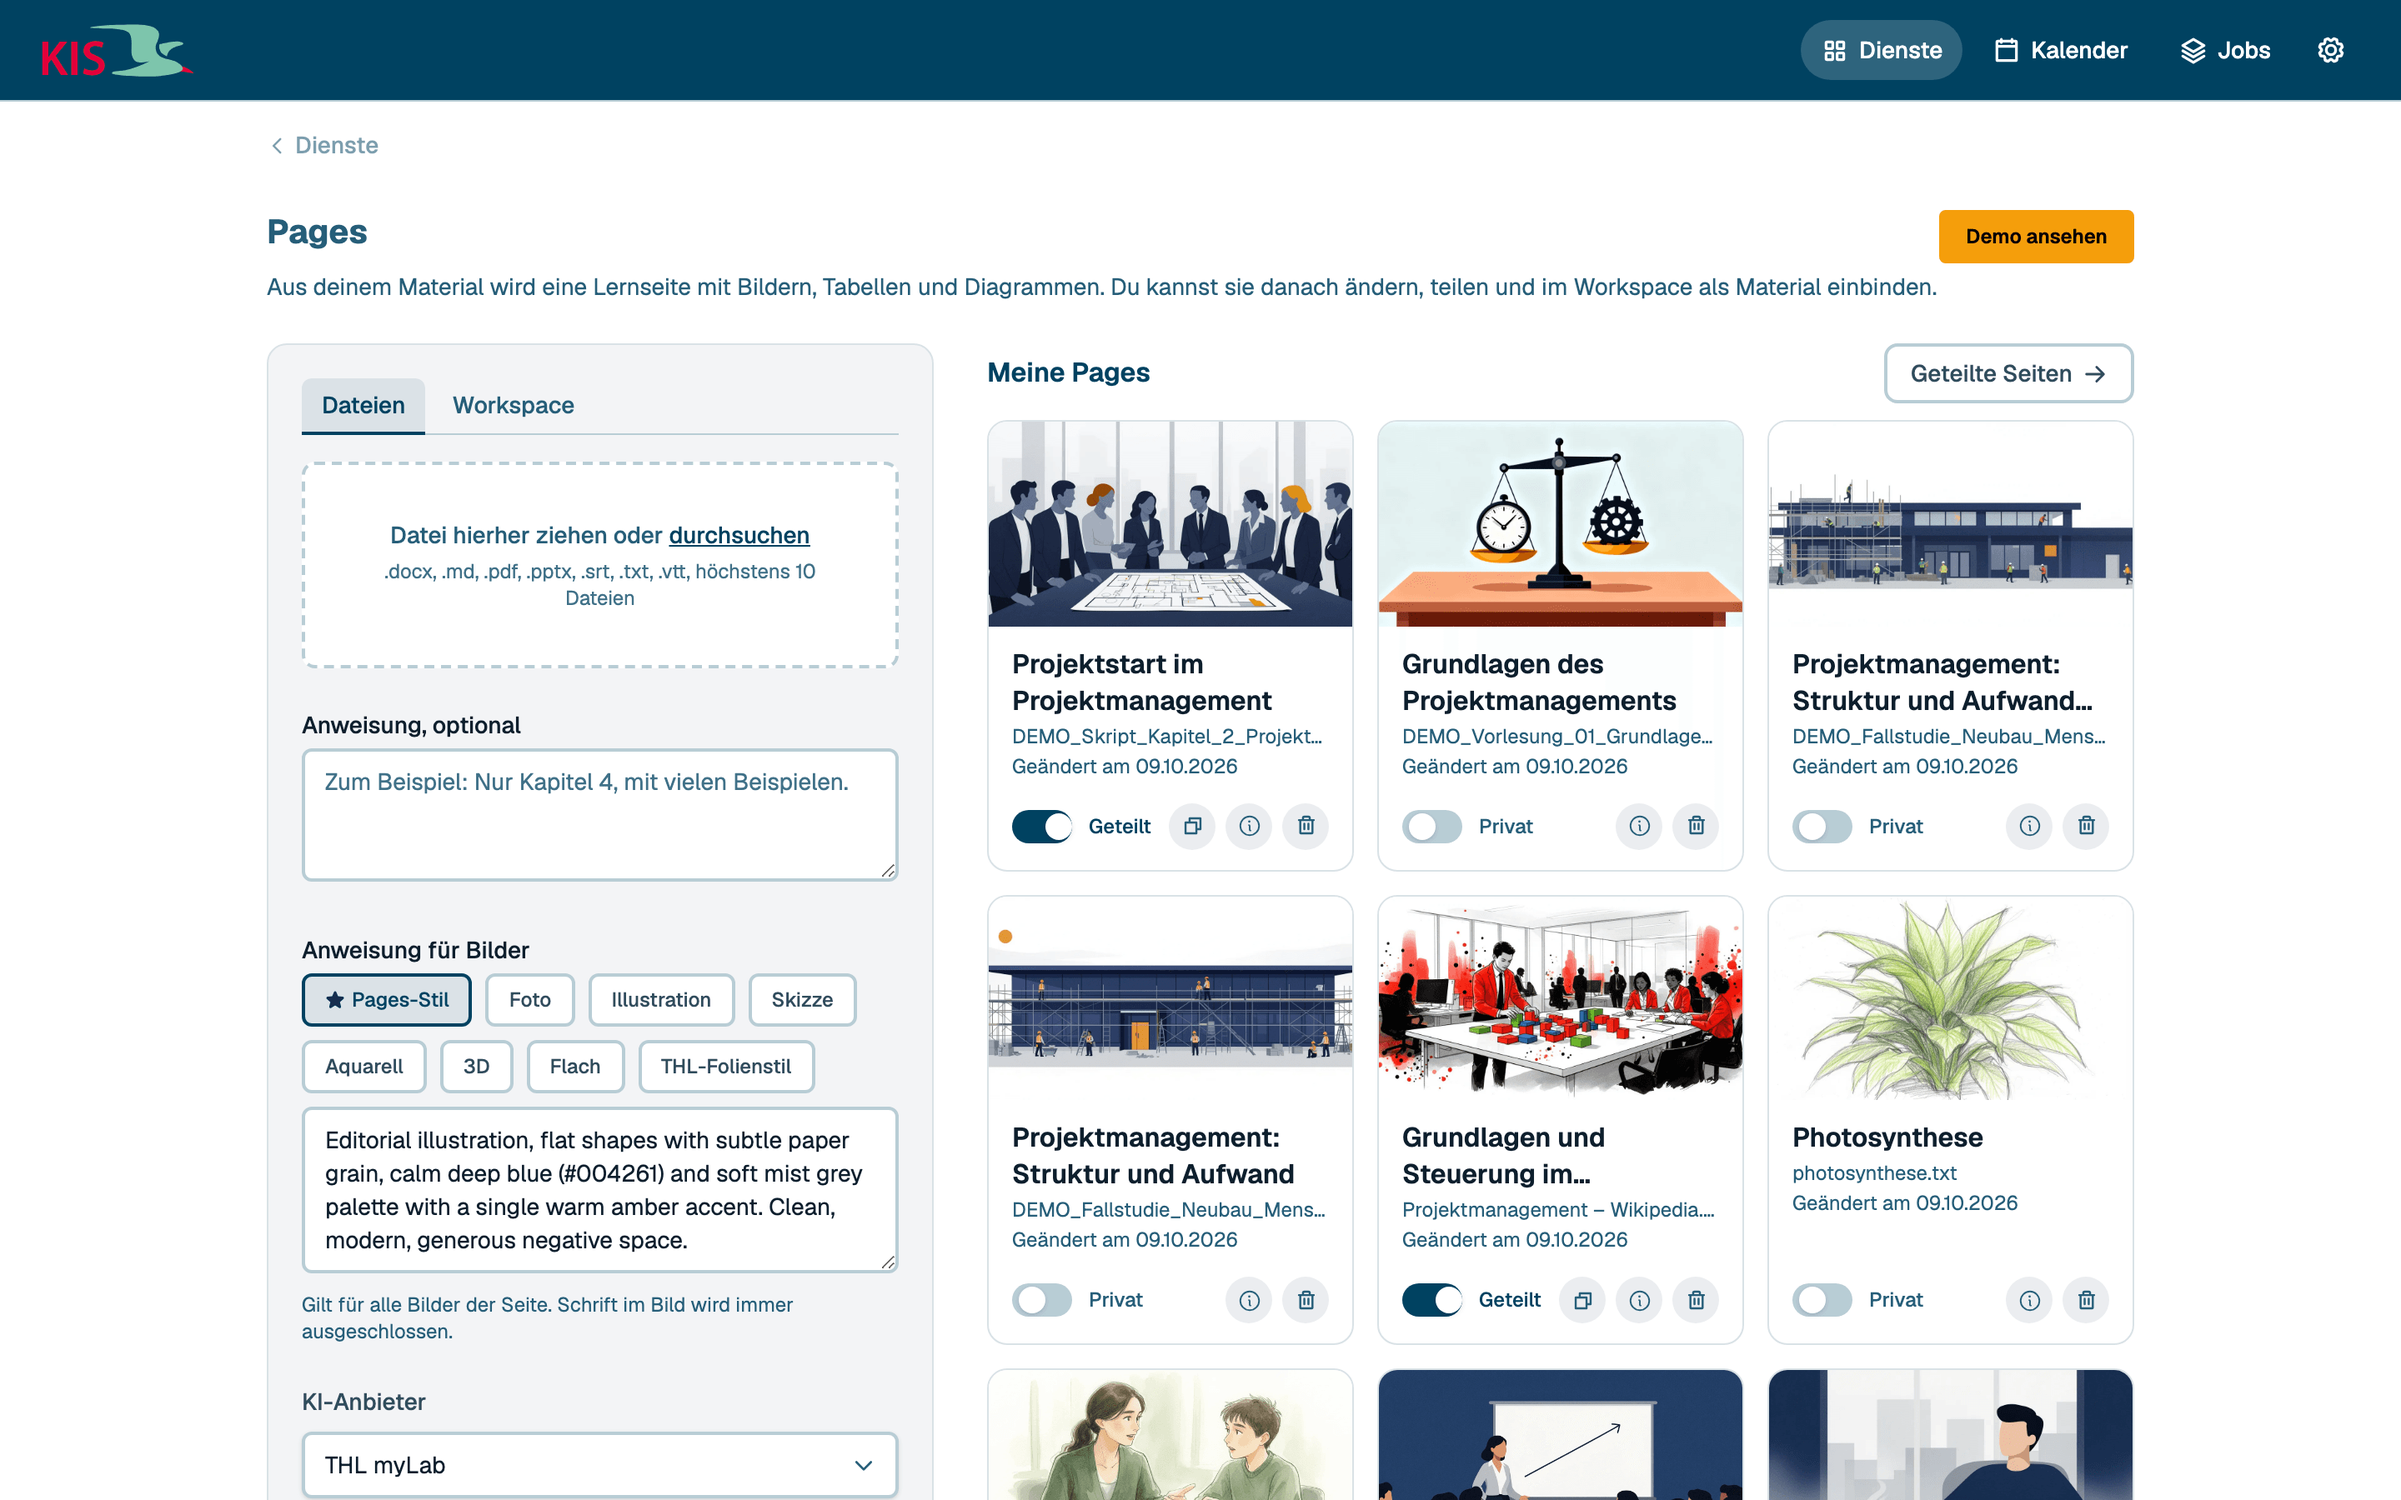
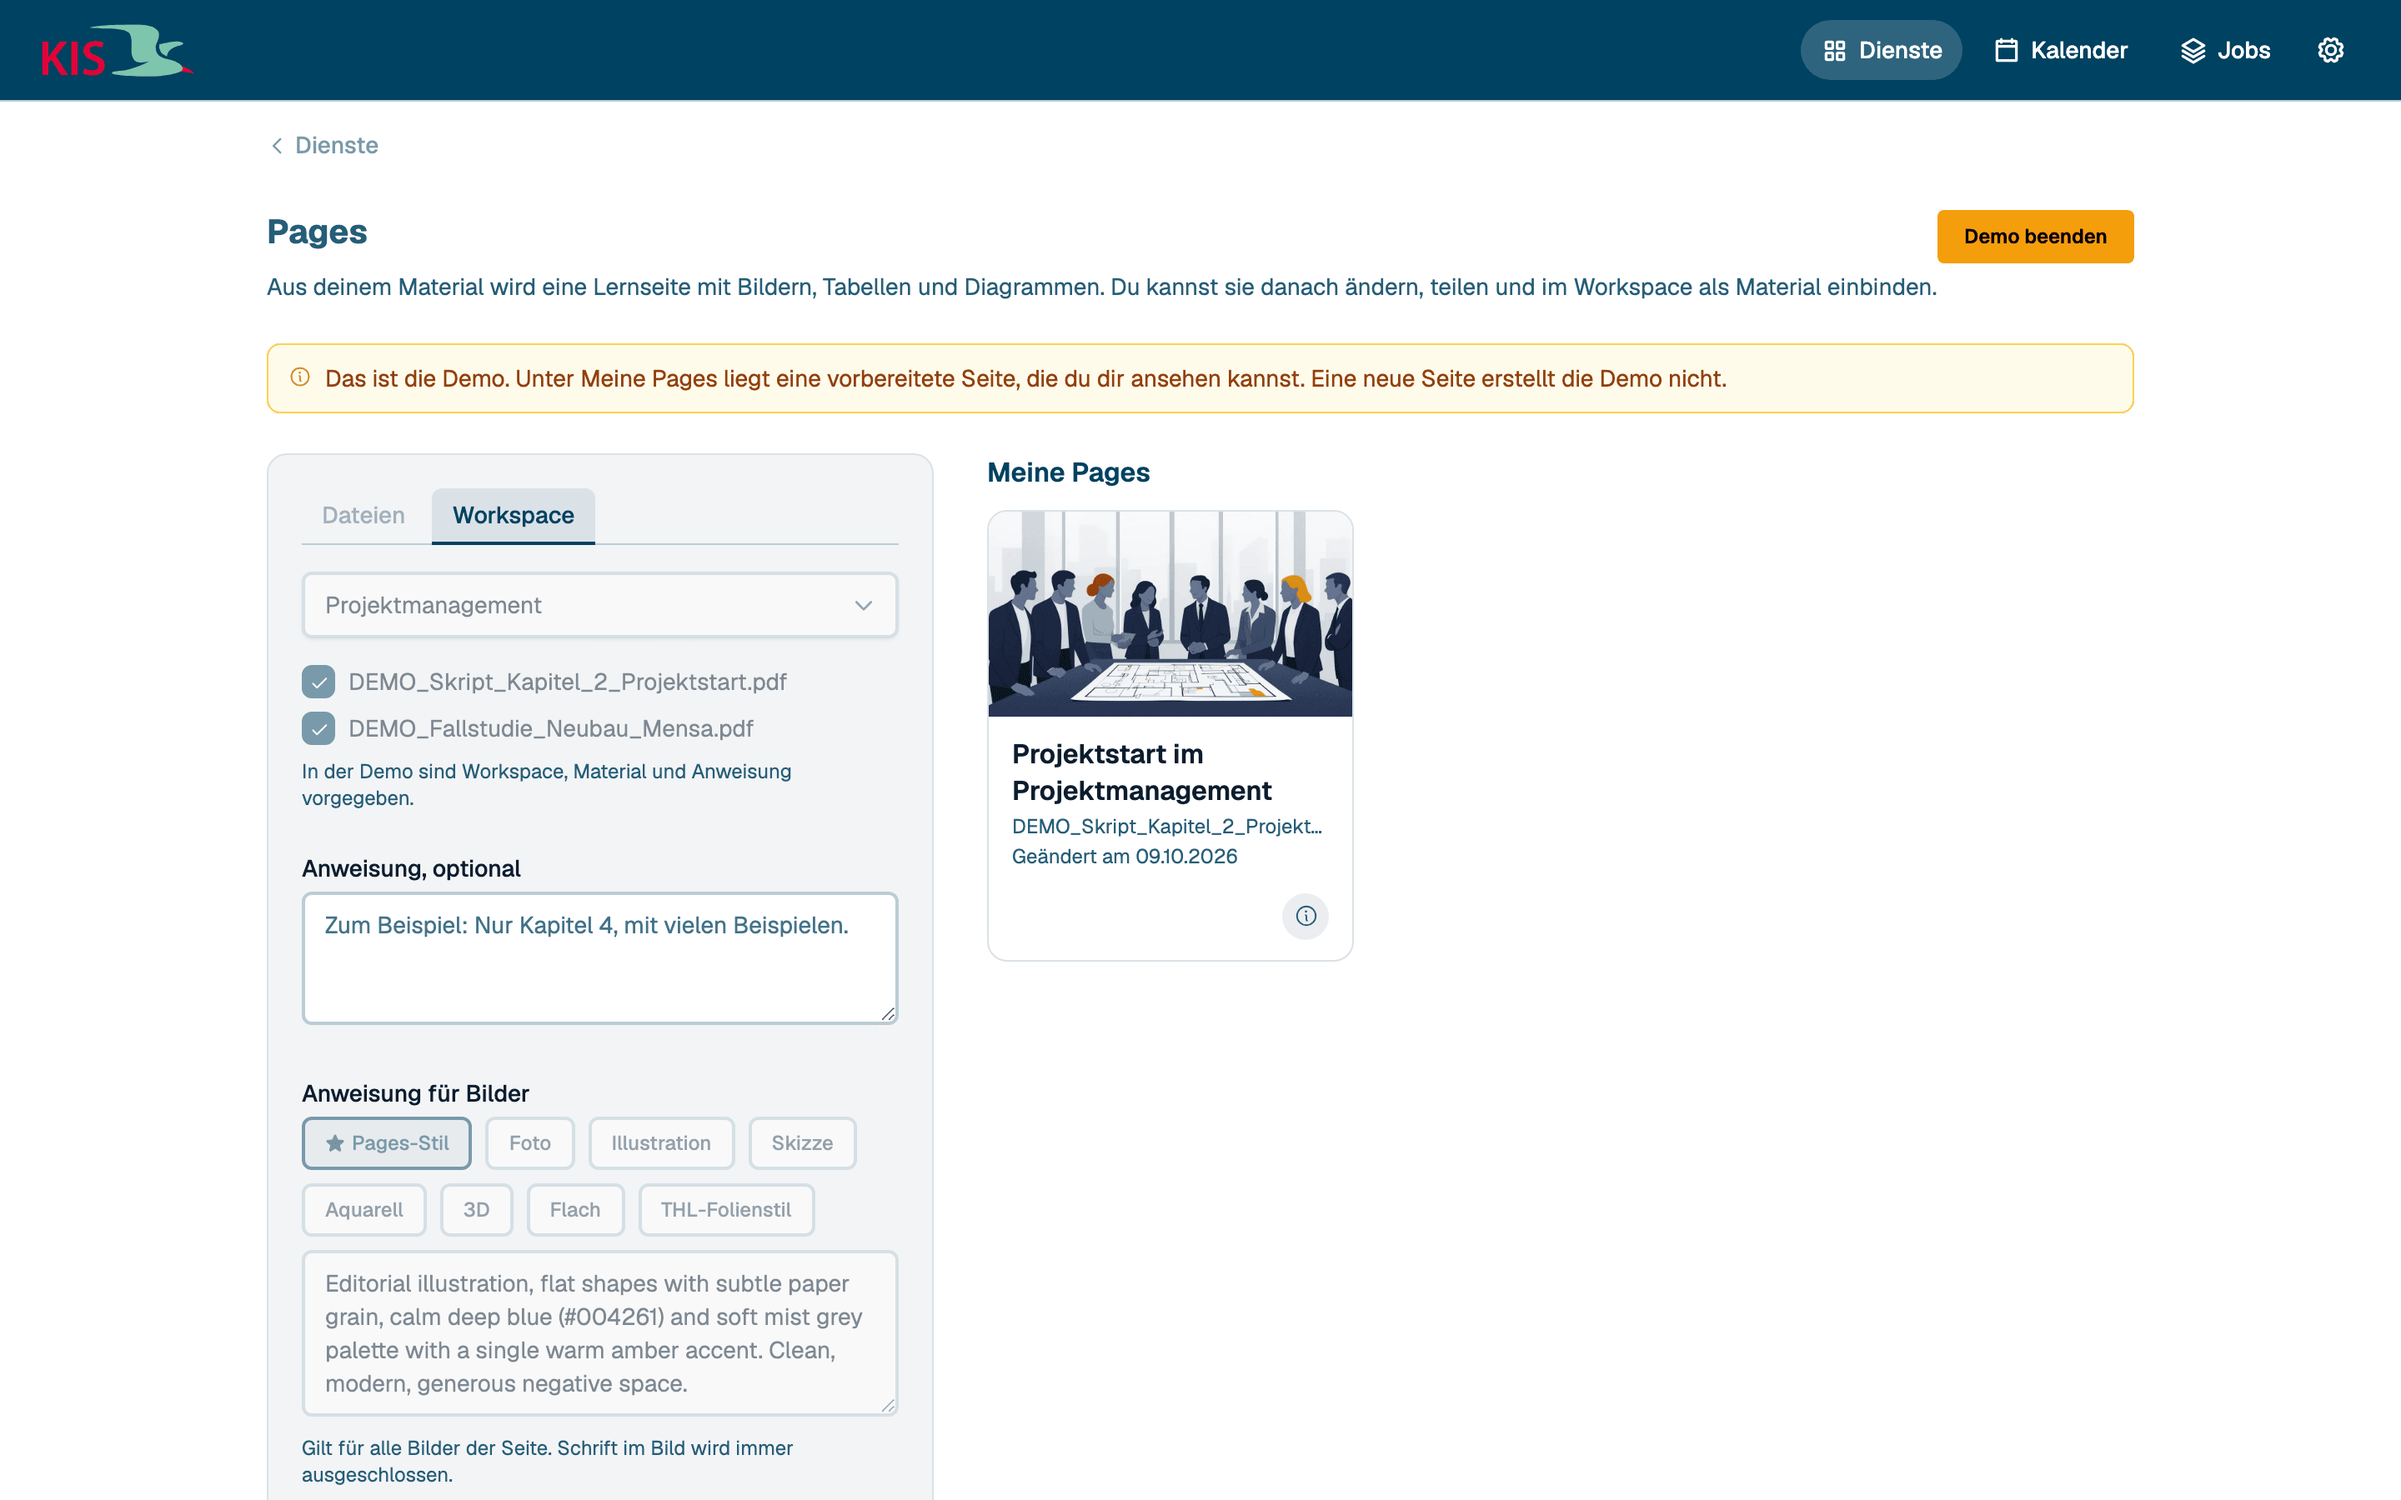
fix(handbuch): Pages-Bild zeigt die Demo-Ansicht statt der eigenen Seitenliste
Die eigene Seitenliste zeigte echte Testinhalte mehrerer Faecher, die Demo-Ansicht
mit vorgegebenem Workspace ist fuer das Handbuch klarer.

diff --git a/frontend/e2e/manual-images.spec.ts b/frontend/e2e/manual-images.spec.ts
@@ -36,7 +36,7 @@ const PAGES: { name: string; path: string }[] = [
   { name: "tool-text-to-speech", path: "/tools/tts" },
   { name: "tool-speech-to-text", path: "/tools/stt" },
   { name: "tool-summary", path: "/tools/summarize" },
-  { name: "tool-pages", path: "/tools/pages" },
+  { name: "tool-pages", path: "/tools/pages-demo" },
   { name: "tool-image", path: "/tools/image" },
   { name: "tool-screencast", path: "/tools/screencast" },
   { name: "tool-podcast", path: "/tools/podcast" },
